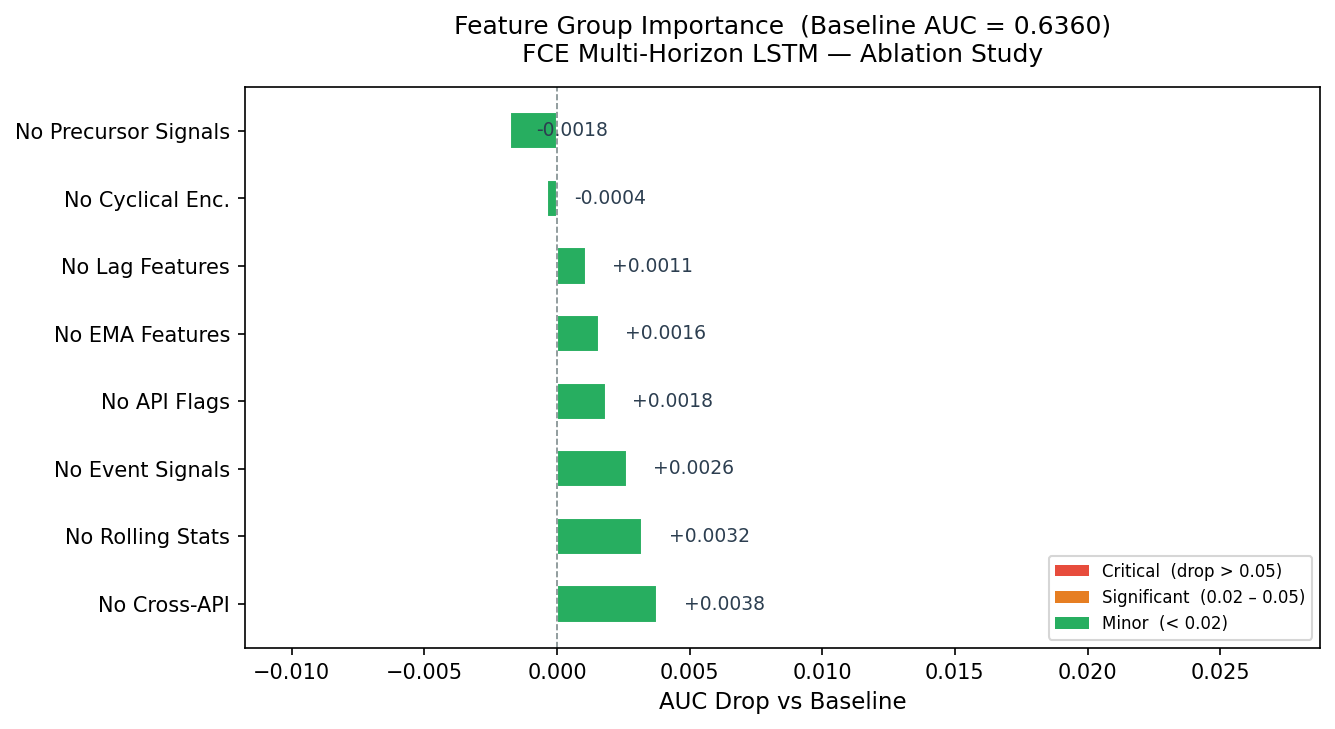
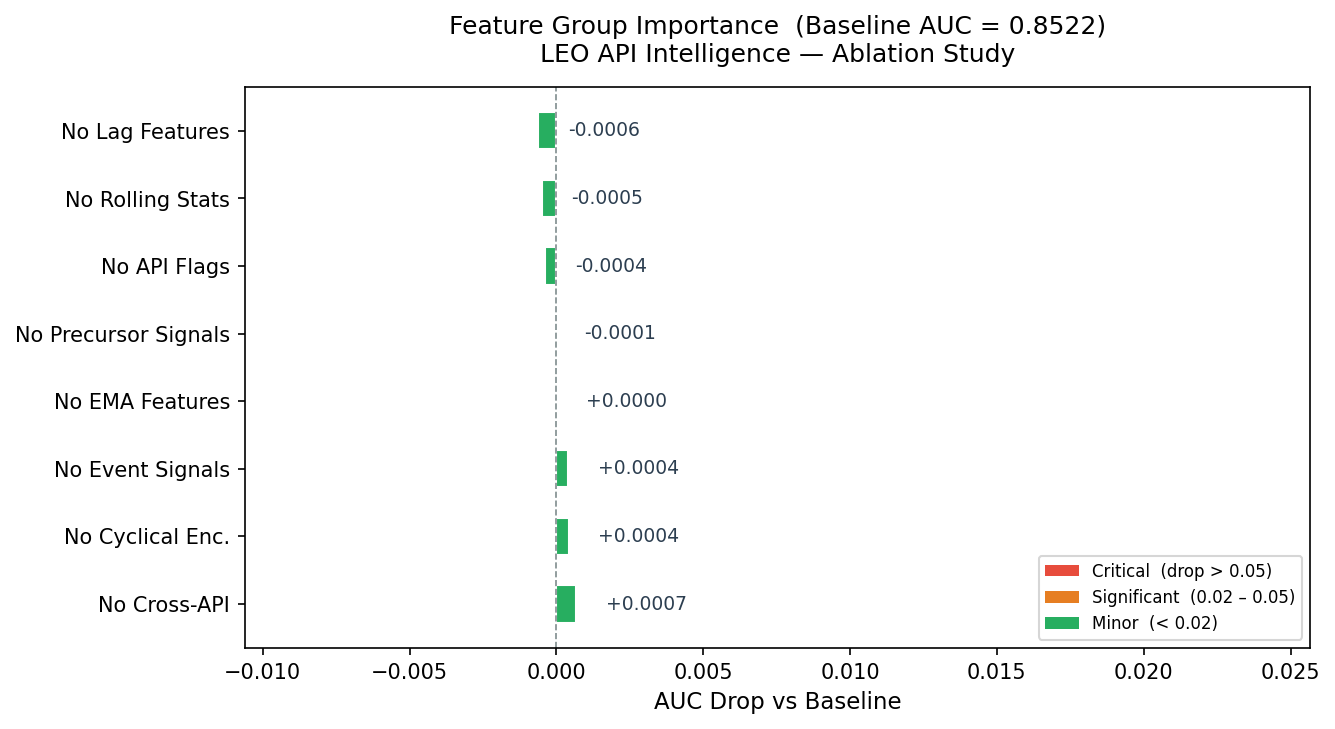
-- Train updates 03/23

diff --git a/scripts/agent_simulation.py b/scripts/agent_simulation.py
@@ -348,6 +348,11 @@ def save_chart(proactive, reactive, out_path: str):
 
 # ── Main ──────────────────────────────────────────────────────────────────────
 def main(args):
+    # Apply dynamic thresholds and cost
+    global HIGH_RISK_THRESHOLD, COST_PER_FAILURE
+    HIGH_RISK_THRESHOLD = args.threshold
+    COST_PER_FAILURE = args.cost_per_failure
+    print(f"  Threshold: {HIGH_RISK_THRESHOLD}  Cost/failure: ${COST_PER_FAILURE}")
     rng = np.random.default_rng(args.seed)
     np.random.seed(args.seed)
 
@@ -491,11 +496,15 @@ def main(args):
 if __name__ == '__main__':
     parser = argparse.ArgumentParser()
     parser.add_argument('--data', type=str,
-                        default=os.path.join("data", "banking_api_features_v6.csv"),
+                        default=os.path.join("data", "banking_api_features_v7.csv"),
                         help="Path to features CSV")
     parser.add_argument('--n_transactions', type=int, default=1000,
                         help='Number of transactions to simulate (default: 1000)')
     parser.add_argument('--seed',           type=int, default=42,
                         help='Random seed for reproducibility')
+    parser.add_argument('--threshold',      type=float, default=0.65,
+                        help='High risk threshold for proactive switching (default: 0.65)')
+    parser.add_argument('--cost_per_failure', type=float, default=50.0,
+                        help='Cost per failure in USD (default: 50.0)')
     args = parser.parse_args()
     main(args)